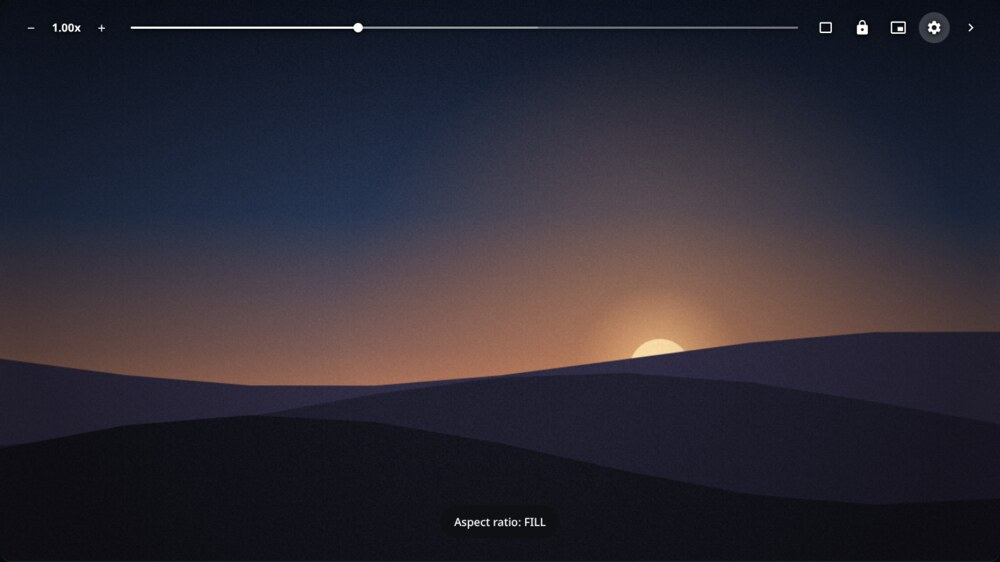
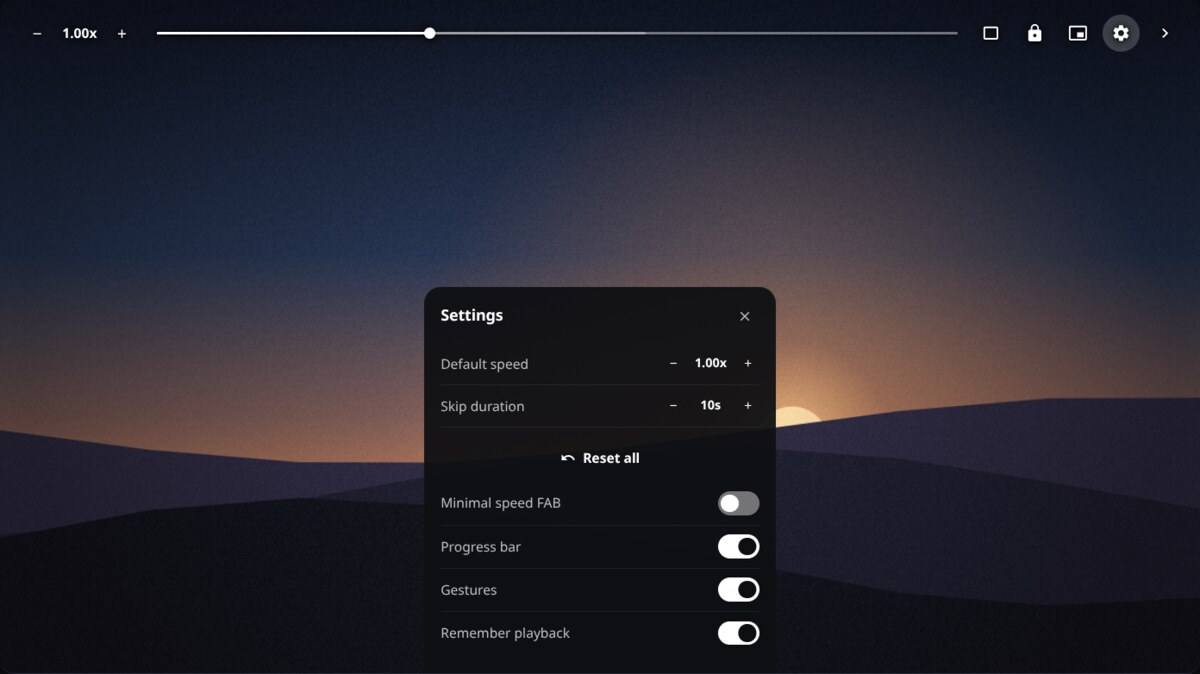
docs: replace table-based theme documentation with gallery layout and update theme-halo image asset

Changed region(s): [[0.341, 0.4235, 0.651, 0.968], [0.372, 0.9075, 0.558, 0.968], [0.372, 0.847, 0.403, 0.9075]]

diff --git a/GlideVideo/README.md b/GlideVideo/README.md
@@ -6,12 +6,6 @@
 [![GitHub](https://img.shields.io/badge/GitHub-quantavil-blue?style=flat&logo=github)](https://github.com/quantavil/userscript)
 [![License](https://img.shields.io/badge/License-MIT-lightgrey?style=flat)](#license)
 
-<p align="center">
-  <img src="https://raw.githubusercontent.com/quantavil/userscript/main/GlideVideo/asset/photo_2026-05-24_12-43-44.jpg" width="45%" alt="Overlay and speed stepper" />
-  &nbsp;&nbsp;
-  <img src="https://raw.githubusercontent.com/quantavil/userscript/main/GlideVideo/asset/photo_2026-05-24_12-43-45.jpg" width="45%" alt="Settings sheet" />
-</p>
-
 ---
 
 ## Install
@@ -21,6 +15,26 @@ Needs a userscript manager — Tampermonkey or Violentmonkey. Works on any mobil
 **[→ Install GlideVideo](https://raw.githubusercontent.com/quantavil/userscript/main/GlideVideo/dist/glidevideo.user.js)**
 
 Runs on every site. To turn it off for one, use **GlideVideo: Disable on \<site\>** in your userscript manager's menu.
+
+---
+
+## Themes
+
+Three overlay themes, each answering the same question a different way — *how do controls stay readable over footage you don't control?* All three draw **zero blurred layers**, which is what actually costs frames on mobile: every `backdrop-filter` forces a readback of a video surface that repaints every frame.
+
+<p align="center">
+  <img src="https://raw.githubusercontent.com/quantavil/userscript/main/GlideVideo/asset/theme-halo.jpg" width="100%" alt="Halo theme with the settings sheet open" />
+</p>
+
+**Halo** · default — nothing over the picture but the controls, each wearing a tight dark outline. It's the trick broadcast subtitles have used for decades, and it never tints the frame.
+
+<p align="center">
+  <img src="https://raw.githubusercontent.com/quantavil/userscript/main/GlideVideo/asset/theme-high-contrast.jpg" width="49%" alt="High Contrast theme" />
+  &nbsp;
+  <img src="https://raw.githubusercontent.com/quantavil/userscript/main/GlideVideo/asset/theme-frame.jpg" width="49%" alt="Frame theme" />
+</p>
+
+**High Contrast** — amber on near-opaque black; the only theme fully readable in direct sunlight or on a washed-out panel. &nbsp;·&nbsp; **Frame** — Halo's mechanism with a point of view: hairline corner brackets, a 1px scrub line with frame ticks, one red playhead.
 
 ---
 
@@ -53,30 +67,6 @@ In portrait, vertical swipes are handed back to the page so feeds still scroll. 
 | **Settings** | Below |
 
 Prefer something smaller? **Minimal Speed FAB** swaps the speed pill for a single circular badge that cycles 0.5× → 2.0× on tap.
-
----
-
-## Themes
-
-Three overlay themes, each answering the same question a different way — *how do controls stay readable over footage you don't control?* All three draw **zero blurred layers**, which is what actually costs frames on mobile: every `backdrop-filter` forces a readback of a video surface that repaints every frame.
-
-<table>
-<tr>
-<td width="33%"><img src="https://raw.githubusercontent.com/quantavil/userscript/main/GlideVideo/asset/theme-halo.jpg" alt="Halo theme" /></td>
-<td width="33%"><img src="https://raw.githubusercontent.com/quantavil/userscript/main/GlideVideo/asset/theme-high-contrast.jpg" alt="High Contrast theme" /></td>
-<td width="33%"><img src="https://raw.githubusercontent.com/quantavil/userscript/main/GlideVideo/asset/theme-frame.jpg" alt="Frame theme" /></td>
-</tr>
-<tr>
-<td><b>Halo</b> · default</td>
-<td><b>High Contrast</b></td>
-<td><b>Frame</b></td>
-</tr>
-<tr valign="top">
-<td>Nothing over the picture but the controls, each wearing a tight dark outline — the trick broadcast subtitles have used for decades.</td>
-<td>Amber on near-opaque black. The only theme fully readable in direct sunlight or on a washed-out panel.</td>
-<td>Halo's mechanism with a point of view: hairline corner brackets, a 1px scrub line with frame ticks, one red playhead.</td>
-</tr>
-</table>
 
 ---
 
